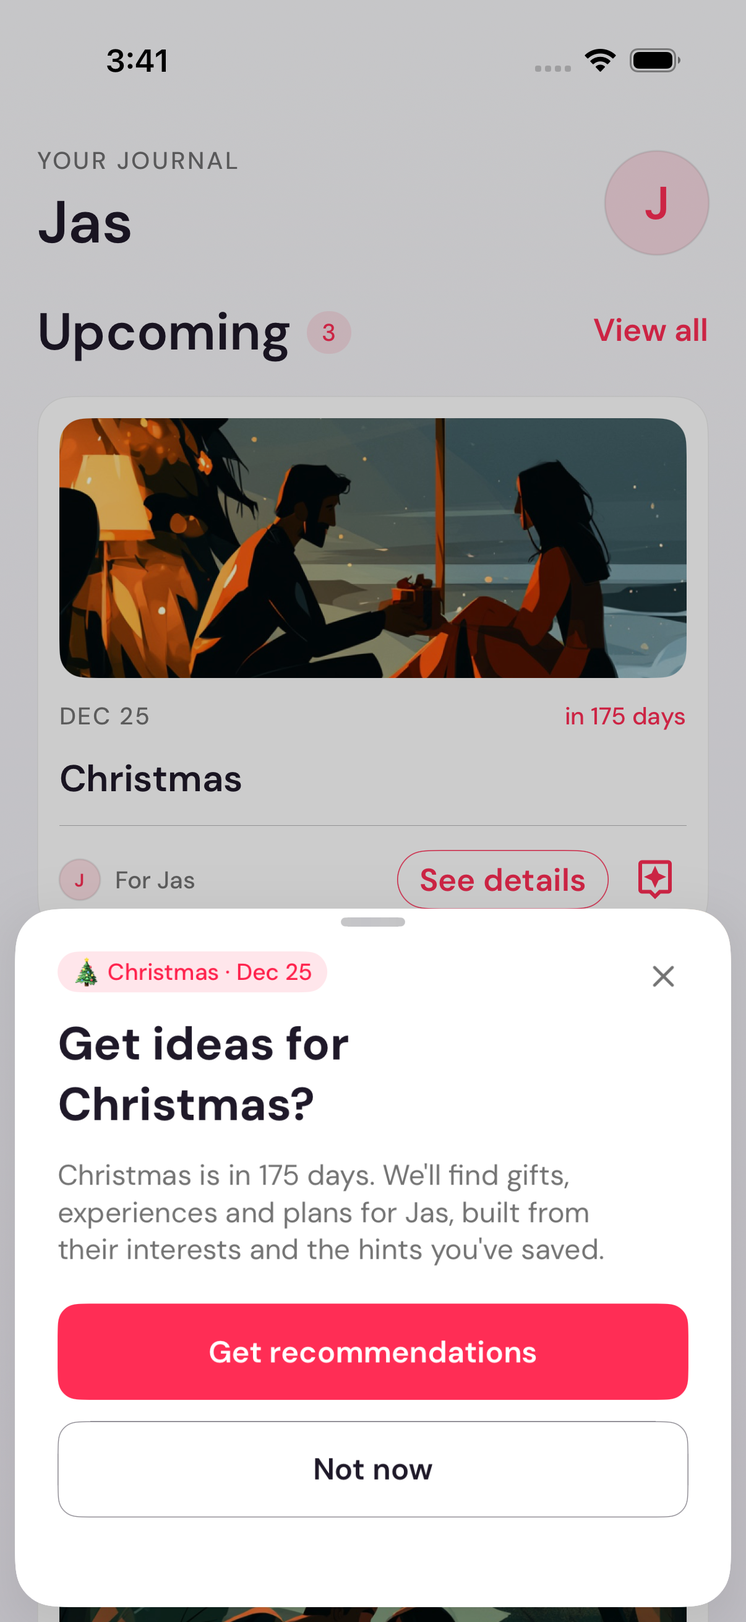
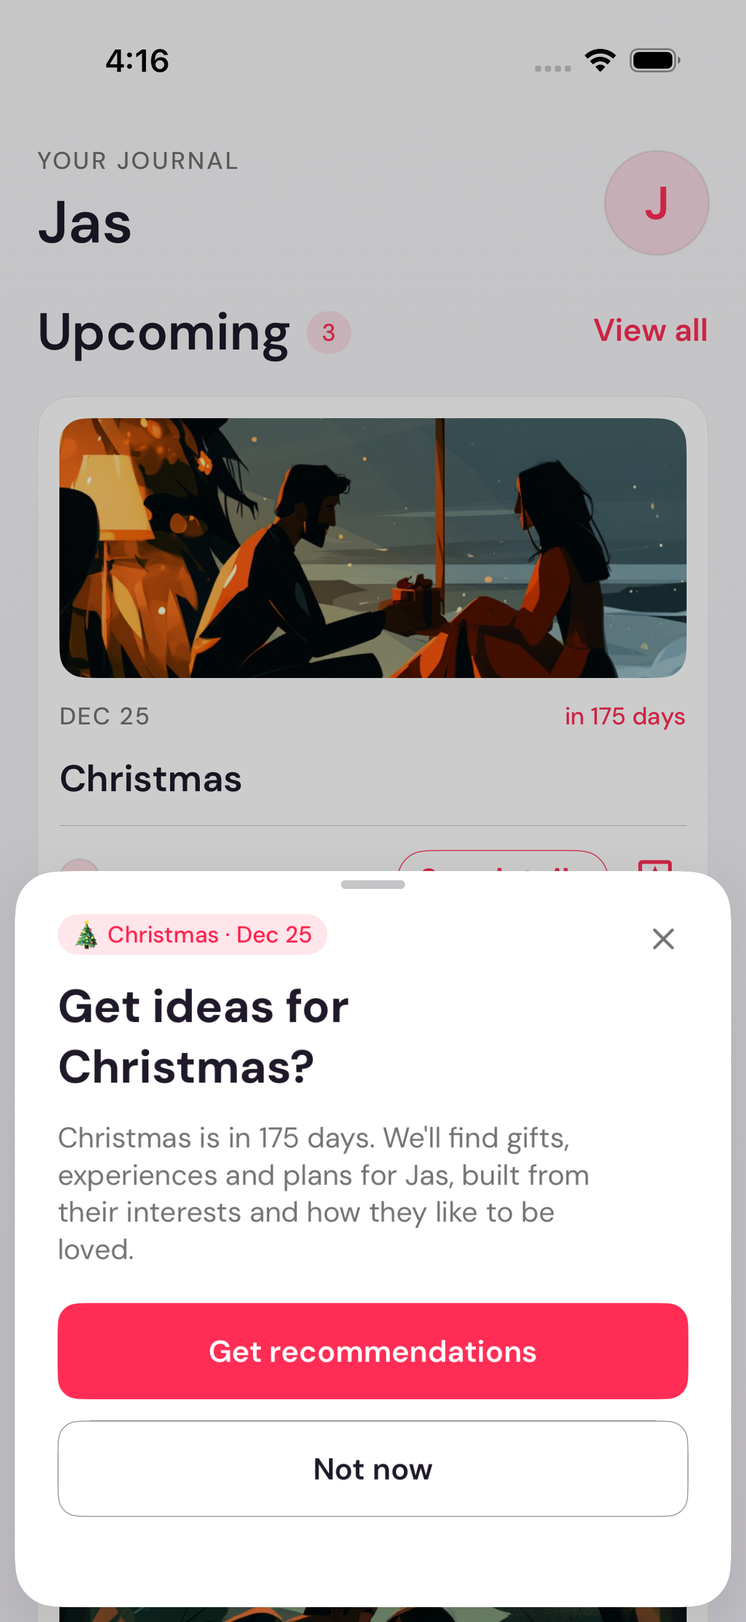
Stop the sheet promising hints, which the app can no longer capture
The grounding tail read "built from their interests and the hints you've
saved", carried forward from the copy this branch replaced. Hint capture has
had no entry point in the app for some time: SessionHintsSheet is still defined
and still has tests, but nothing presents it — the Refresh button that raised it
was removed — so submitSessionHintAndRefresh and HintService.createHint are
unreachable. The Hints tab and the Home-screen capture went earlier, and the
Settings clear-all row after that. There is no surface left that writes a hint.

Changed the tail to name interests and love languages instead. Both are
collected at onboarding, both remain editable in Settings, and both are read by
the generation prompt on every run — so the sentence now describes something the
user can actually act on. The backend half of hints is untouched and still live,
so a row saved before the UI disappeared still influences a result; what was
wrong was inviting the user to add one.

Added hint to the forbidden-claims list in the test that exists to catch exactly
this and didn't. Its list only named the mock's claims — a wishlist, past gifts,
a gendered pronoun — so it had nothing to say about a promise that went stale
because a feature was removed rather than because the copy was wrong when it was
written. The list's own length is now asserted so it cannot be quietly emptied,
and a companion test pins that every framing still grounds itself in the two
fields that remain reachable.
[…]

Changed region(s): [[0.0, 0.5252, 0.9818, 0.7723], [0.1227, 0.0309, 0.2148, 0.0618]]

diff --git a/Knot/iOS/KnotTests/MilestoneRecommendationSheetTests.swift b/Knot/iOS/KnotTests/MilestoneRecommendationSheetTests.swift
@@ -222,15 +222,15 @@ final class MilestoneRecommendationBodyTests: XCTestCase {
     func testBodyLeadsWithTheEventAndItsTiming() {
         XCTAssertEqual(
             body(.giftForward),
-            "Christmas is in 175 days. We'll find gifts, experiences and plans for Jas, built from their interests and the hints you've saved."
+            "Christmas is in 175 days. We'll find gifts, experiences and plans for Jas, built from their interests and how they like to be loved."
         )
         XCTAssertEqual(
             body(.sharedOccasion, name: "Our Anniversary", daysUntil: 7),
-            "Our Anniversary is next week. We'll find date plans, experiences and gifts for the two of you, built from Jas's interests and the hints you've saved."
+            "Our Anniversary is next week. We'll find date plans, experiences and gifts for the two of you, built from Jas's interests and how they like to be loved."
         )
         XCTAssertEqual(
             body(.gesture, name: "Jas's Big Presentation", daysUntil: 3),
-            "Jas's Big Presentation is in 3 days. We'll find small gestures, thoughtful gifts and low-key ideas for Jas, built from their interests and the hints you've saved."
+            "Jas's Big Presentation is in 3 days. We'll find small gestures, thoughtful gifts and low-key ideas for Jas, built from their interests and how they like to be loved."
         )
     }
 
@@ -282,19 +282,56 @@ final class MilestoneRecommendationBodyTests: XCTestCase {
         }
     }
 
-    /// The app has no wishlist and no purchase history, and never collects a
-    /// gender — the comp's copy claimed all three. Guards the rewrite so nobody
-    /// "restores" the mock's wording later. Runs across every framing now that
-    /// there are five of them rather than one string.
+    /// The grounding tail may only name mechanisms the user can actually reach.
+    /// Three claims have already failed that test and are pinned here:
+    ///
+    /// - `wishlist` / `past gifts` — the comp promised both; the app has
+    ///   neither a wishlist nor purchase history.
+    /// - `her` / `his` — the comp used a pronoun for a gender the app never
+    ///   collects.
+    /// - `hint` — hint capture has **no UI entry point**: `SessionHintsSheet`
+    ///   is defined but never presented (the Refresh button that raised it was
+    ///   removed), so `HintService.createHint` is unreachable. The backend
+    ///   still reads hints into the prompt, but a user cannot save one, so
+    ///   "the hints you've saved" invited an action the app doesn't offer.
+    ///   That one shipped *past this test* because the list only named the
+    ///   comp's claims — hence this note, and hence the check below that the
+    ///   list itself hasn't been quietly emptied.
     func testNoBodyClaimsAnythingTheAppDoesNotDo() {
+        let forbiddenClaims = ["wishlist", "past gifts", " her ", " his ", "hint"]
+
+        // A guard that can be defeated by deleting its own list isn't a guard.
+        XCTAssertEqual(
+            forbiddenClaims.count, 5,
+            "Claims were removed from the forbidden list — each was added because copy shipped that the app could not back up"
+        )
+
         for framing in MilestoneRecommendationCopy.Framing.allCases {
             let resolved = body(framing).lowercased()
-            for forbidden in ["wishlist", "past gifts", " her ", " his "] {
+            for forbidden in forbiddenClaims {
                 XCTAssertFalse(
                     resolved.contains(forbidden),
                     "\(framing) body mentions \"\(forbidden)\""
                 )
             }
+        }
+    }
+
+    /// The replacement tail names interests and love languages. Both are
+    /// collected during onboarding and remain editable in Settings → Edit
+    /// Profile, and both are read by the generation prompt on every run — so
+    /// unlike hints, the sheet is describing something the user can act on.
+    func testEveryFramingGroundsItselfInReachableVaultFields() {
+        for framing in MilestoneRecommendationCopy.Framing.allCases {
+            let resolved = body(framing).lowercased()
+            XCTAssertTrue(
+                resolved.contains("interests"),
+                "\(framing) body drops the interests grounding"
+            )
+            XCTAssertTrue(
+                resolved.contains("how they like to be loved"),
+                "\(framing) body drops the love-language grounding"
+            )
         }
     }
 }

diff --git a/Knot/iOS/Knot/Features/ForYou/MilestoneRecommendationCopy.swift b/Knot/iOS/Knot/Features/ForYou/MilestoneRecommendationCopy.swift
@@ -229,28 +229,44 @@ extension MilestoneRecommendationCopy {
 
     /// What the sheet promises to go and find, per framing.
     ///
-    /// Every variant keeps the "built from their interests and the hints you've
-    /// saved" tail verbatim. Step 19.49 wrote it deliberately in place of the
-    /// comp's "her wishlist and past gifts" — the app has neither a wishlist nor
-    /// purchase history, and never collects a gender — and a test forbids those
-    /// claims coming back.
+    /// Every variant ends with the same grounding tail — "built from their
+    /// interests and how they like to be loved" — naming the two vault fields
+    /// the user actually fills in and can still edit (Settings → Edit Profile →
+    /// Interests / Love Languages), which the generation prompt reads on every
+    /// run.
+    ///
+    /// **The tail must only name mechanisms the user can actually reach.** Two
+    /// have already had to be removed for failing that test:
+    ///
+    /// - the comp's "her wishlist and past gifts" — the app has neither a
+    ///   wishlist nor purchase history, and never collects a gender;
+    /// - "the hints you've saved" — hint capture has had **no UI entry point**
+    ///   since the Refresh button was removed, which left `SessionHintsSheet`
+    ///   defined but never presented and `HintService.createHint` unreachable.
+    ///   The backend still retrieves hints and feeds them to the prompt, so a
+    ///   legacy row can still influence a result, but a user cannot add one —
+    ///   and copy that invites them to is a promise the app can't keep.
+    ///
+    /// `testNoBodyClaimsAnythingTheAppDoesNotDo` forbids all of the above.
+    /// Anything new added here has to be checked the same way: find the control
+    /// that produces it, not just the field that stores it.
     static func offerClause(framing: Framing, partnerName: String) -> String {
         let partner = resolvedPartnerName(partnerName)
 
         switch framing {
         case .giftForward:
-            return "We'll find gifts, experiences and plans for \(partner), built from their interests and the hints you've saved."
+            return "We'll find gifts, experiences and plans for \(partner), built from their interests and how they like to be loved."
         case .sharedOccasion:
             // "for the two of you", not "to mark it" — the lead clause is
             // dropped for an undated milestone, and a pronoun with nothing to
             // refer back to would dangle.
-            return "We'll find date plans, experiences and gifts for the two of you, built from \(partner)'s interests and the hints you've saved."
+            return "We'll find date plans, experiences and gifts for the two of you, built from \(partner)'s interests and how they like to be loved."
         case .gesture:
-            return "We'll find small gestures, thoughtful gifts and low-key ideas for \(partner), built from their interests and the hints you've saved."
+            return "We'll find small gestures, thoughtful gifts and low-key ideas for \(partner), built from their interests and how they like to be loved."
         case .spontaneous:
-            return "We'll find small gifts, spontaneous dates and ideas for \(partner), built from their interests and the hints you've saved."
+            return "We'll find small gifts, spontaneous dates and ideas for \(partner), built from their interests and how they like to be loved."
         case .unknown:
-            return "We'll find gifts, dates and plans for \(partner), built from their interests and the hints you've saved."
+            return "We'll find gifts, dates and plans for \(partner), built from their interests and how they like to be loved."
         }
     }
 

diff --git a/Knot/memory-bank/architecture.md b/Knot/memory-bank/architecture.md
@@ -188,8 +188,8 @@ These reuse the original full-screen layouts so a user editing their profile fro
 | `ForYouViewModel.swift` | **Active (Step 16.2).** `@Observable @MainActor` view model managing timeline data. Loads milestones via MilestoneService.listMilestones() and partner name via VaultService.getVault() in parallel. Provides urgencyLevel(for:) with 5-tier MilestoneUrgency enum, formattedDate(_:) for "MMM d" display, and occasionType(for:) mapping. Does not own recommendation state — each NavigationLink push creates a fresh RecommendationsView. |
 | `MilestoneCard.swift` | **New (Step 19.31).** One upcoming milestone as a full-width artwork card, replacing `TimelineEntryView`. `KnotCard(padding: .md, radius: Theme.Radius.xl)` wrapping: **140pt artwork** (**Step 19.35** — was 200pt, at which one card and a sliver of the next filled the screen and the feed read as a stack of posters; the illustrations are 1050×480 ≈ 2.2:1, so 140pt against a ~370pt-wide card lands near their native ratio and the crop keeps the figures whole. `artworkHeight` is `private` with one call site, so only the Journal feed and the `journal` screenshot harness are affected), a meta row of uppercase letterspaced date opposite the countdown, the milestone name in `cardTitleSemibold` (**Step 19.34** — was `sectionHeaderSemibold`, a 28pt *page*-title scale that competed with the then-200pt artwork; the 20pt card scale keeps the semibold weight so the headline still out-weights the `label`-styled meta row and footer), a `Divider`, and a footer of `PartnerInitialAvatar` + "For {partner}" + the `Image("RecommendationBadge")` button carried over from the old row. **The artwork needs no new assets or data:** `artwork(for:)` delegates to `OccasionCopy.illustrationName(for:)` (Step 19.25's bundle-checked slug lookup) keyed by `MilestoneItemResponse.occasionCategory`, which the For You tab had never used; only the `default` category ships no illustration and falls back to an accent gradient carrying the milestone-type glyph. The illustration is composed as an overlay on `Color.clear` (the `SpotlightCard` idiom from Step 18.45) rather than sized directly: `scaledToFill` reports a size larger than the proposal, and that overflow propagates into *layout* — sized directly it widened the card past the viewport and shifted the whole screen sideways. `clipShape` clips pixels, it does not constrain layout. Three pure statics keep the logic testable without SwiftUI introspection — `artwork(for:) -> Artwork` (`.illustration(name)` / `.placeholder`), `dateLabel(from:)` (uppercases the view model's "MMM d"), and `countdownColor(for:)`. The last one preserves the timeline's urgency signal the design would otherwise have dropped: accent for `upcoming`/`planning`/`distant`, but `Theme.statusError` / `Theme.statusWarning` for `critical` / `soon` (the old row used raw `.red` / `.orange`, predating the Step 18.8 status tokens) — which also keeps `ForYouViewModel.urgencyLevel` a consumed API rather than dead code. Also defines **`PartnerInitialAvatar`**, a circular initial mark used by both the card footer and the screen header; the app stores no partner photo at any layer, so it is decorative and `.accessibilityHidden(true)`. **Step 19.38:** the footer gained a labelled `KnotButton("See details", .outline, .sm, .pill)` beside the recommendation icon, driven by a new optional `onSeeDetails` closure (same shape as `onGetRecommendations`, so the card still renders without it). The two are **different destinations** — the button opens the event via `MilestoneDetailView`, the icon asks for ideas for it — which is why both are kept. `.outline` rather than `.primary` (a second pink *fill* would compete with the countdown and the accent icon on the same row) or `.secondary` (that variant fills with `surfaceElevated`, which has almost no contrast against the card's own surface — the same reason the "Upcoming" count badge is `.accent`). With three controls now sharing one variable-width line, the button takes `.fixedSize()` + `.layoutPriority(1)` and "For {partner}" gains a `minimumScaleFactor(0.85)`, so the *name* compresses under pressure and the button can never truncate — the anti-jank recipe from `BudgetTierSliderCard` (18.36) and `LoveLanguageCard` (18.39). **Step 19.49:** unchanged in API and appearance, but `onGetRecommendations` now raises `MilestoneRecommendationSheet` rather than pushing `RecommendationsView` directly — the icon carries no label, so it asks before starting a ~30s generation. `onSeeDetails` is untouched. The two controls remain different *destinations*: the button opens the event, the icon asks for ideas for it. The icon's existing accessibility label ("Get recommendations for {name}") stayed accurate through the change, which is what lets `PRScreenshotTests` target it without touching this file. |
 | `TimelineEntryView.swift` | **Removed (Step 19.31)**, replaced by `MilestoneCard`. Its `partnerName` parameter had been passed by every call site and never read. Was: individual milestone row in the vertical timeline. Leading: timeline line (2px) + urgency-colored dot (10px). Content: date badge (capsule), milestone icon + name, countdown text. Optional "Get Recommendations" CTA card (shown when daysUntil <= 60) with accent-colored background and chevron. **Step 18.1:** Date pill migrated to `KnotBadge(.secondary, .sm)`; the tinted-soft "Get Recommendations" CTA was deliberately kept inline as a snowflake design (doesn't justify a new primitive variant). **Step 19.11:** Replaced that inline pill with a compact trailing recommendation icon button — the info + countdown now sit in a leading `VStack` beside a trailing `Button` wrapping `Image("RecommendationBadge")` (the exact Figma "assistant" bubble+sparkle vector, template-tinted `Theme.accent`, 34pt frame that carries the design's 5pt inset), matching the Figma "Entry Info" `justify-between`. The `daysUntil <= 60` gate was dropped (in `ForYouView`) so the (now unobtrusive) button shows on every milestone row. |
-| `MilestoneRecommendationSheet.swift` | **New (Step 19.49).** The bottom sheet a Journal card's recommendation (sparkle) icon raises before pushing `RecommendationsView`, implementing Figma node 259:554 — a `KnotBadge(.accent)` occasion pill ("🎄 Christmas · Dec 25"), a `sheetTitle` headline, one line of body copy, and stacked `KnotButton`s: `.primary` "Get recommendations" over `.outlineNeutral` "Not now", plus a plain `Lucide.x` close (not `KnotIconButton(.ghost)`, which paints accent — a pink X reads as an action, the call `OccasionEntryModal` also makes). Presented as a **stock `.sheet`**, the house idiom for all 12 of the app's bottom sheets: it supplies the scrim, grab indicator and drag-to-dismiss, and a UIKit modal covers the presenting controller's whole view — including the `KnotTabBar` that `MainTabView` mounts via `.safeAreaInset`, which a `ZStack` layer inside `ForYouView` could not. The centered-dialog apparatus (`fullScreenCover` + `presentationBackground(.clear)` + `disablesAnimations`) exists to *defeat* the sheet's bottom-slide and is deliberately not reused here. **The view configures its own presentation** so its height measurement stays encapsulated: a `SheetContentHeightKey` `PreferenceKey` feeds `.presentationDetents([.height(measured)])` so the sheet hugs its content across milestone names and Dynamic Type. Three details are load-bearing — `.fixedSize(horizontal: false, vertical: true)` on the content stack (without it the first pass lays out against the *seed* height, the title truncates, and the measurement reports the truncated height, so the sheet shrinks instead of growing); the detent adds `safeAreaInsets.bottom`, read from a `GeometryReader` that `.ignoresSafeArea(.container, edges: .bottom)` (otherwise "Not now" sits under the home indicator and the sheet scrolls ~34pt at rest); and it varies **one detent's value**, never the detent *set*, which UIKit resolves by snapping. `adopt(_:)` applies the first correction inside a `disablesAnimations` transaction so the sheet doesn't jump off its seed, and gates on a `> 0.5` delta so sub-point churn can't loop. Three pure statics carry the copy — `badgeText(milestoneName:emoji:formattedDate:)` (degrades to name-only, or date-only, when a part is missing), `title(milestoneName:)`, and `body(partnerName:)`, which **deliberately diverges from the comp**: the mock's "her wishlist and past gifts" names two features the app doesn't have and a gender it never collects, so the shipped line is "…based on their interests and the hints you've saved" and a test pins it. **Step 19.50:** those three statics moved out to `MilestoneRecommendationCopy` and the two gift-only ones were rewritten — `title(milestoneName:)` hardcoded "Get gift ideas for {event}?" while the pipeline emits five recommendation types, and `body(partnerName:)` took no occasion input at all, so 22 very different occasions got one sentence. `header` now resolves all three slots through a single `copy` property, which is what guarantees the badge, headline and body describe the same occasion. No layout, detent or `adopt(_:)` change was needed — the sheet already measures itself, so the longer two-sentence body simply re-detents. The `#Preview` became five, one per framing, since a copy framework whose whole point is that the variants read differently is only reviewable by looking at them. The honesty guard survives and widens: it now runs across all five framings rather than one string. |
-| `MilestoneRecommendationCopy.swift` | **New (Step 19.50).** The content framework behind `MilestoneRecommendationSheet` — badge, title and body resolved from the milestone's `occasion_category`, its `daysUntil`, and the two names. Replaces a hardcoded "Get gift ideas for {event}?" headline (the pipeline emits five recommendation types — `gift`/`experience`/`date`/`idea`/`plan` — and the unified prompt's DIVERSITY rule mixes them on every run, so naming one was a false promise) and a body whose only variable was the partner's name. **Five framings, not 22 templates.** A `Framing` decides two things — the question the title asks and which recommendation types the body names — and the occasion name, timing phrase and partner name are the fill: `giftForward` (12 categories → "Get ideas for {event}?" / "gifts, experiences and plans"), `sharedOccasion` (6 → "Plan {event} together?" / "date plans, experiences and gifts for the two of you"), `gesture` (thinking_of_you, big_day → "Ways to show up for {partner}?" / "small gestures, thoughtful gifts and low-key ideas"), `spontaneous` (just_because), and `unknown` (`default` plus anything a newer backend invents — reachable by design, so an unrecognised key lands on generic-but-correct copy rather than an empty sheet). 12+6+2+1+1 = 22, and `framedCategories` is pinned **both ways** against `OccasionCopy.knownCategories` so an occasion added to the catalogue cannot ship unframed and a framing for a category the backend can't emit cannot sit unexercised. **`OccasionCopy` was deliberately not reused** — it holds one hand-written template per category, which is right for `OccasionEntryModal` (fires *after* generation, announces a result, past tense) but wrong here (fires *before*, asks a question, future tense); its `timingPhrase(daysUntil:)` and `emoji(for:)` **are** reused so the two occasion surfaces phrase time identically. **The body is two sentences:** a lead clause carrying the context ("Christmas is in 175 days.") plus the offer clause. The lead is **dropped entirely when `daysUntil` is nil** — a past one-time milestone genuinely has no day count and asserting a timing it doesn't have is worse than saying nothing — and `spontaneous` substitutes "No occasion needed." `sharedOccasion` says "for the two of you" rather than "to mark it" precisely because the lead can be absent and a pronoun would then dangle. Every offer clause keeps the `"built from their interests and the hints you've saved"` tail verbatim (the Step 19.49 divergence from the comp's "her wishlist and past gifts" — the app has neither, and never collects a gender). Bespoke per-occasion copy remains one map away: `framing(for:)` is the only lookup between a category and its strings. |
+| `MilestoneRecommendationSheet.swift` | **New (Step 19.49).** The bottom sheet a Journal card's recommendation (sparkle) icon raises before pushing `RecommendationsView`, implementing Figma node 259:554 — a `KnotBadge(.accent)` occasion pill ("🎄 Christmas · Dec 25"), a `sheetTitle` headline, one line of body copy, and stacked `KnotButton`s: `.primary` "Get recommendations" over `.outlineNeutral` "Not now", plus a plain `Lucide.x` close (not `KnotIconButton(.ghost)`, which paints accent — a pink X reads as an action, the call `OccasionEntryModal` also makes). Presented as a **stock `.sheet`**, the house idiom for all 12 of the app's bottom sheets: it supplies the scrim, grab indicator and drag-to-dismiss, and a UIKit modal covers the presenting controller's whole view — including the `KnotTabBar` that `MainTabView` mounts via `.safeAreaInset`, which a `ZStack` layer inside `ForYouView` could not. The centered-dialog apparatus (`fullScreenCover` + `presentationBackground(.clear)` + `disablesAnimations`) exists to *defeat* the sheet's bottom-slide and is deliberately not reused here. **The view configures its own presentation** so its height measurement stays encapsulated: a `SheetContentHeightKey` `PreferenceKey` feeds `.presentationDetents([.height(measured)])` so the sheet hugs its content across milestone names and Dynamic Type. Three details are load-bearing — `.fixedSize(horizontal: false, vertical: true)` on the content stack (without it the first pass lays out against the *seed* height, the title truncates, and the measurement reports the truncated height, so the sheet shrinks instead of growing); the detent adds `safeAreaInsets.bottom`, read from a `GeometryReader` that `.ignoresSafeArea(.container, edges: .bottom)` (otherwise "Not now" sits under the home indicator and the sheet scrolls ~34pt at rest); and it varies **one detent's value**, never the detent *set*, which UIKit resolves by snapping. `adopt(_:)` applies the first correction inside a `disablesAnimations` transaction so the sheet doesn't jump off its seed, and gates on a `> 0.5` delta so sub-point churn can't loop. Three pure statics carry the copy — `badgeText(milestoneName:emoji:formattedDate:)` (degrades to name-only, or date-only, when a part is missing), `title(milestoneName:)`, and `body(partnerName:)`, which **deliberately diverges from the comp**: the mock's "her wishlist and past gifts" names two features the app doesn't have and a gender it never collects, so the shipped line is "…based on their interests and the hints you've saved" and a test pins it. **Step 19.50:** those three statics moved out to `MilestoneRecommendationCopy` and the two gift-only ones were rewritten — `title(milestoneName:)` hardcoded "Get gift ideas for {event}?" while the pipeline emits five recommendation types, and `body(partnerName:)` took no occasion input at all, so 22 very different occasions got one sentence. `header` now resolves all three slots through a single `copy` property, which is what guarantees the badge, headline and body describe the same occasion. No layout, detent or `adopt(_:)` change was needed — the sheet already measures itself, so the longer two-sentence body simply re-detents. The `#Preview` became five, one per framing, since a copy framework whose whole point is that the variants read differently is only reviewable by looking at them. The honesty guard survives, widens across all five framings, and gained `hint` — the first pass's tail promised hints, which the app has had no way to capture since Step 18.49. |
+| `MilestoneRecommendationCopy.swift` | **New (Step 19.50).** The content framework behind `MilestoneRecommendationSheet` — badge, title and body resolved from the milestone's `occasion_category`, its `daysUntil`, and the two names. Replaces a hardcoded "Get gift ideas for {event}?" headline (the pipeline emits five recommendation types — `gift`/`experience`/`date`/`idea`/`plan` — and the unified prompt's DIVERSITY rule mixes them on every run, so naming one was a false promise) and a body whose only variable was the partner's name. **Five framings, not 22 templates.** A `Framing` decides two things — the question the title asks and which recommendation types the body names — and the occasion name, timing phrase and partner name are the fill: `giftForward` (12 categories → "Get ideas for {event}?" / "gifts, experiences and plans"), `sharedOccasion` (6 → "Plan {event} together?" / "date plans, experiences and gifts for the two of you"), `gesture` (thinking_of_you, big_day → "Ways to show up for {partner}?" / "small gestures, thoughtful gifts and low-key ideas"), `spontaneous` (just_because), and `unknown` (`default` plus anything a newer backend invents — reachable by design, so an unrecognised key lands on generic-but-correct copy rather than an empty sheet). 12+6+2+1+1 = 22, and `framedCategories` is pinned **both ways** against `OccasionCopy.knownCategories` so an occasion added to the catalogue cannot ship unframed and a framing for a category the backend can't emit cannot sit unexercised. **`OccasionCopy` was deliberately not reused** — it holds one hand-written template per category, which is right for `OccasionEntryModal` (fires *after* generation, announces a result, past tense) but wrong here (fires *before*, asks a question, future tense); its `timingPhrase(daysUntil:)` and `emoji(for:)` **are** reused so the two occasion surfaces phrase time identically. **The body is two sentences:** a lead clause carrying the context ("Christmas is in 175 days.") plus the offer clause. The lead is **dropped entirely when `daysUntil` is nil** — a past one-time milestone genuinely has no day count and asserting a timing it doesn't have is worse than saying nothing — and `spontaneous` substitutes "No occasion needed." `sharedOccasion` says "for the two of you" rather than "to mark it" precisely because the lead can be absent and a pronoun would then dangle. Every offer clause ends with the same grounding tail — `"built from their interests and how they like to be loved"` — naming the two vault fields the user fills in at onboarding, can still edit in Settings → Edit Profile, and that the generation prompt reads on every run. **The tail may only name mechanisms the user can actually reach**, and two have already failed that test: the comp's "her wishlist and past gifts" (the app has neither, and never collects a gender), and `"the hints you've saved"`, which shipped on this step's first pass and was corrected — **hint capture has had no UI entry point** since Step 18.49 removed the Refresh button, leaving `SessionHintsSheet` defined but never presented and `HintService.createHint` unreachable. `testNoBodyClaimsAnythingTheAppDoesNotDo` forbids all of them, asserts its own list length so it cannot be quietly emptied, and is paired with a test pinning that every framing still names the two reachable fields. Bespoke per-occasion copy remains one map away: `framing(for:)` is the only lookup between a category and its strings. |
 | `MilestoneDetailView.swift` | **Active (Step 19.48; replaced the Step 19.38 placeholder wholesale).** One Journal event's own screen, implementing Figma node 579:421. Layout: an in-content header row (`KnotIconButton(Lucide.arrowLeft, .ghost)` + the milestone name in `sectionHeaderSemibold`), a **140pt** occasion hero (reusing `MilestoneCard.artwork(for:)` and the same `Color.clear` + overlay idiom, since a `scaledToFill` image's overflow propagates into layout), a `KnotCard` meta card of three `surfaceBorder`-divided columns — **DATE** (`fullDate`), **COUNTDOWN** (`MilestonesViewModel.daysUntilText`, tinted by `MilestoneCard.countdownColor(for:)` so the screen agrees with the card that opened it), **RECIPIENT** (`PartnerInitialAvatar` + partner name) — then the "Saved ideas" section, then a full-width "Get more ideas" `KnotButton`. That CTA is the **last element of the scroll, not a `safeAreaInset`**: written as a pinned bottom bar first, it floated over the cards with nothing behind it and they bled through; the comp also puts it at the end of the content. Takes `urgency` (for the countdown colour) and `onGetIdeas` (the host dismisses the cover, then pushes — see `ForYouView.showIdeas(for:)`) alongside the milestone, partner name and `onDismiss`. **Saved ideas** come from `MilestoneDetailViewModel`, rendered by the file-private `SavedIdeaCard` (110pt photo over `RecommendationFallbackImage` so a card is never blank per Step 19.13, title + accent price, a two-line note, a `KnotBadge("SAVED", .accent)` opposite a bookmark button that removes the idea). The whole card taps through to `RecommendationDetailView` rebuilt via `SavedRecommendation.toDetailItem()` (the Step 19.9 path), using `.onTapGesture` rather than a wrapping `Button` so the remove control keeps hit-testing. Three pure statics remain: `countdownText(for:)` (falls back to `"—"`, because `daysUntilText(nil)` is `""` and an empty value under a "COUNTDOWN" label reads as a rendering failure — a fixed three-column grid can't drop the column the way the card drops its countdown without stranding a divider), `fullDate(from:)` (expands `"2000-MM-DD"` to "December 25", returning `"—"` when it can't parse — deliberately **not** falling back to `ForYouViewModel.formattedDate(_:)`, which returns the raw stored string on exactly the same failure and would surface the storage format to the user) and `savedIdeasAccessibilityLabel(count:)`. The placeholder's `recurrenceLabel(_:)` / `occasionLabel(for:)` were deleted with the Repeats / Occasion / Budget rows the comp does not carry; those values are still shown and edited in `MilestonesManagementView`. **The comp's `⋯` more button is deliberately omitted** — edit and delete already live behind "View all", and a menu with no destination is the dead-control problem Step 19.31 called out. |
 | `MilestoneDetailViewModel.swift` | **New (Step 19.48).** `@Observable @MainActor` reader for one event's saved ideas. `load(milestoneId:modelContext:)` yields once (the Step 18.18 rule — `ModelContext` is main-actor bound, so a fetch in the same render tick as first appear stalls hit testing), fetches all `SavedRecommendation` newest-first, then filters `milestoneId` **in Swift**: SwiftData predicates over an optional `String` are unreliable, and `SavedViewModel` already fetches the library unbounded, so the read costs nothing new. `remove(_:modelContext:)` deletes the row (mirroring `SavedViewModel.deleteSavedRecommendation`) rather than detaching it — the saved library is one store, and a detach would leave a row the user can no longer see anywhere. `openMerchant(_:)` mirrors `SavedViewModel`'s for the nested detail page's CTA. |
 | `JustBecauseCard.swift` | **Active (Step 18.1, icons removed Step 19.10).** Top card for non-milestone recommendation generation. "Surprise them today" title, description with partner name, pink "Get Recommendations" CTA button. **Step 18.1:** Migrated to compose `KnotCard` + `KnotSectionHeader` + `KnotButton` primitives instead of inline chrome. `onGenerate` is typed `@MainActor () -> Void` for Swift 6 strict concurrency. **Step 19.10:** Removed both `Lucide.sparkles` icons — the `KnotSectionHeader` leading icon and the "Get Recommendations" `KnotButton` `leadingIcon` — leaving a cleaner text-only card; the now-unused `import LucideIcons` was dropped. |
@@ -291,7 +291,7 @@ Future files:
 | `SupabaseClient.swift` | **Active** | Singleton `SupabaseManager.client` initialized with `Constants.Supabase.projectURL` and `anonKey`. The Supabase Swift SDK automatically handles Keychain session storage and token refresh. Used by `AuthViewModel`, `VaultService`, and future service classes. |
 | `VaultService.swift` | **Active (Step 3.12)** | `@MainActor` service for Partner Vault API operations. Four methods: (1) `createVault(_:)` — sends `POST /api/v1/vault` with full onboarding payload; handles 201 success, 401 auth, 409 duplicate, 422 validation, and network errors with typed `VaultServiceError` enum. (2) `getVault()` — sends `GET /api/v1/vault` to retrieve full vault data (all 6 tables); handles 200 success, 401 auth, 404 not found. Returns `VaultGetResponse`. (3) `updateVault(_:)` — sends `PUT /api/v1/vault` with full vault payload (same schema as create); handles 200 success, 401 auth, 404 not found, 422 validation. Returns `VaultUpdateResponse`. (4) `vaultExists()` — queries Supabase PostgREST directly (`partner_vaults?select=id&limit=1`) using the anon client (RLS-scoped); returns `Bool`. All HTTP methods use Bearer token auth via `getAccessToken()`, `URLSession.shared`, `JSONEncoder`/`JSONDecoder`, and differentiate network errors by `URLError.code`. Called by `OnboardingViewModel.submitVault()`, `AuthViewModel.listenForAuthChanges()`, and `EditVaultView`. |
 | `APIClient.swift` | Planned | Generic HTTP client for backend API calls (future refactor) |
-| `HintService.swift` | **Active (Step 4.6, callers updated in Step 18.6)** | `@MainActor` service for Hint Capture API operations. Three methods: (1) `createHint(text:source:)` — sends `POST /api/v1/hints` with hint text and source ("text_input" or "voice_transcription"); handles 201 success, 401 auth, 404 no vault, 422 validation (empty text, text too long), and network errors with typed `HintServiceError` enum (6 cases mirroring `VaultServiceError` pattern). (2) `listHints(limit:offset:)` — sends `GET /api/v1/hints?limit=N&offset=M` to retrieve hints in reverse chronological order; handles 200 success, 401 auth, 404 no vault. Returns `HintListResponse`. (3) `deleteHint(id:)` — sends `DELETE /api/v1/hints/{id}` to permanently delete a hint; handles 204 success, 401 auth, 404 not found (hint doesn't exist or belongs to another user). Uses Bearer token auth via `getAccessToken()`, `URLSession.shared`, `JSONEncoder`/`JSONDecoder`, `mapURLError()` for typed network error differentiation. Parses both FastAPI error formats (string detail + array detail). **Step 18.6 callers:** `RecommendationsViewModel.submitSessionHintAndRefresh()` (best-effort write inside the recommendation refresh flow), and `SettingsViewModel.clearAllHints()` (uses `listHints` + `deleteHint` for the "Clear All Hints" action). The previous Home-screen and standalone-tab capture surfaces were removed in Step 18.6 along with their callers (`HomeViewModel.submitHint`/`loadRecentHints`, `HintsListViewModel.loadHints`/`deleteHint`). **Step 19.7:** `SettingsViewModel.clearAllHints()` was removed with the Settings "Clear All Hints" row, so `createHint` (recommendation refresh flow) is now the only active caller; `listHints`/`deleteHint` are retained as backend-mirroring API-client surface (no current in-app caller). |
+| `HintService.swift` | **Active (Step 4.6, callers updated in Step 18.6)** | `@MainActor` service for Hint Capture API operations. Three methods: (1) `createHint(text:source:)` — sends `POST /api/v1/hints` with hint text and source ("text_input" or "voice_transcription"); handles 201 success, 401 auth, 404 no vault, 422 validation (empty text, text too long), and network errors with typed `HintServiceError` enum (6 cases mirroring `VaultServiceError` pattern). (2) `listHints(limit:offset:)` — sends `GET /api/v1/hints?limit=N&offset=M` to retrieve hints in reverse chronological order; handles 200 success, 401 auth, 404 no vault. Returns `HintListResponse`. (3) `deleteHint(id:)` — sends `DELETE /api/v1/hints/{id}` to permanently delete a hint; handles 204 success, 401 auth, 404 not found (hint doesn't exist or belongs to another user). Uses Bearer token auth via `getAccessToken()`, `URLSession.shared`, `JSONEncoder`/`JSONDecoder`, `mapURLError()` for typed network error differentiation. Parses both FastAPI error formats (string detail + array detail). **Step 18.6 callers:** `RecommendationsViewModel.submitSessionHintAndRefresh()` (best-effort write inside the recommendation refresh flow), and `SettingsViewModel.clearAllHints()` (uses `listHints` + `deleteHint` for the "Clear All Hints" action). The previous Home-screen and standalone-tab capture surfaces were removed in Step 18.6 along with their callers (`HomeViewModel.submitHint`/`loadRecentHints`, `HintsListViewModel.loadHints`/`deleteHint`). **Step 19.7:** `SettingsViewModel.clearAllHints()` was removed with the Settings "Clear All Hints" row, so `createHint` (recommendation refresh flow) is now the only active caller; `listHints`/`deleteHint` are retained as backend-mirroring API-client surface (no current in-app caller). **⚠ Step 19.50 — that last claim has been stale since Step 18.49, and this row is what makes the mistake easy to repeat: `createHint` has NO active caller either, so the whole service is unreachable and hint capture is not a feature the user can use.** The chain is `SessionHintsSheet.onSubmit` → `RecommendationsViewModel.submitSessionHintAndRefresh` → `createHint`, and Step 18.49 removed the Refresh button that raised that sheet — it is still *defined* in `RecommendationsView.swift` and still has tests, but nothing presents it, which is why grepping for the type finds plenty and proves nothing. Combined with Step 18.6 (Hints tab + Home capture deleted) and 19.7 above, **there is no surface anywhere in the app that writes a hint.** The backend half is untouched and still live: `POST /api/v1/hints` works, `hint_retrieval.py` still pulls the top 10 by pgvector similarity into every generation prompt, and `RECENT HINTS` is still a section of `unified_generation._build_user_prompt` — so pre-existing rows still influence recommendations. **Do not write user-facing copy that references hints** (Step 19.50 did, and had to correct it); if hint capture is wanted back, the sheet and view-model methods are intact and need a presentation plus an entry point, not a rewrite. |
 | `RecommendationService.swift` | **Active (Step 9.4)** | `@MainActor` service for Recommendation API operations. Four methods: (1) `generateRecommendations(occasionType:milestoneId:)` — sends `POST /api/v1/recommendations/generate` with occasion type and optional milestone ID; handles 200 success, 401 auth, 404 no vault, 422 validation, and network errors with typed `RecommendationServiceError` enum (7 cases including `.notFound`). Returns `RecommendationGenerateResponse`. (2) `refreshRecommendations(rejectedIds:reason:)` — sends `POST /api/v1/recommendations/refresh` with rejected recommendation IDs and rejection reason for exclusion filtering; same error handling. Returns `RecommendationRefreshResponse`. Both methods use 60-second timeout (longer than HintService's 30s) because the LangGraph AI pipeline involves multiple agent nodes. (3) **Step 6.3/9.4:** `recordFeedback(recommendationId:action:rating:feedbackText:)` — sends `POST /api/v1/recommendations/feedback`; marked `@discardableResult` for fire-and-forget usage; 15-second timeout; expects 201 status code. `rating: Int?` and `feedbackText: String?` optional params (default nil) added in Step 9.4 for post-purchase rating. Valid actions: "selected", "saved", "shared", "rated", "handoff", "purchased", "disliked" (Step 18.43 — the Spotlight deck's 👎). Returns `RecommendationFeedbackResponse`. (4) **Step 9.2:** `fetchRecommendation(id:)` — sends `GET /api/v1/recommendations/{id}` to fetch a single recommendation by database ID; 15-second timeout; handles 200 success, 401 auth, 404 `.notFound`. Returns `MilestoneRecommendationItemResponse`. Used by `DeepLinkRecommendationView` for Universal Link deep linking. Uses Bearer token auth via `getAccessToken()`, `URLSession.shared`, `JSONEncoder`/`JSONDecoder`, `parseErrorMessage()` for both FastAPI error formats. Called by `RecommendationsViewModel` and `DeepLinkRecommendationView`. |
 | `NotificationHistoryService.swift` | **Active (Step 7.7)** | `@MainActor final class: Sendable` service for notification history API operations. Three methods: (1) `fetchHistory(limit:offset:)` — sends `GET /api/v1/notifications/history` with pagination params; handles 200 success, 401 auth, and generic server errors with typed `NotificationHistoryServiceError` enum (4 cases: noAuthSession, networkError, serverError, decodingError). Returns `NotificationHistoryResponse`. (2) `fetchMilestoneRecommendations(milestoneId:)` — sends `GET /api/v1/recommendations/by-milestone/{milestoneId}`; handles 200, 401, 404, server errors. Returns `MilestoneRecommendationsResponse`. (3) `markViewed(notificationId:)` — sends `PATCH /api/v1/notifications/{notificationId}/viewed`; fire-and-forget (catches all errors, logs to console, never throws). Uses Bearer token auth via `getAccessToken()` from `SupabaseManager.client.auth.session`. Follows `RecommendationService.swift` patterns: `mapURLError()` for typed `URLError` differentiation, `parseErrorMessage()` for both FastAPI error formats (string detail + array detail). 15-second timeout for fetch operations, 10-second for mark-viewed. Called by `NotificationsViewModel`. |
 | `AccountService.swift` | **Active (Step 15.6)** | `@MainActor final class: Sendable` service for account-lifecycle API operations. Public methods: (1) `deleteAccount() async throws` — sends `DELETE /api/v1/users/me`; backend responds 200 with `AccountDeleteResponse` (`status="scheduled"`, `scheduled_deletion_at` ISO timestamp). (2) `restoreAccount() async throws` — sends `POST /api/v1/users/me/restore` to clear `scheduled_deletion_at`; idempotent on the server. (3) `fetchAccountStatus() async throws -> AccountStatus` — sends `GET /api/v1/users/me` and returns `.active` or `.pendingDeletion(scheduledAt: Date)`. Used by `AuthViewModel.refreshPendingDeletionStatus()` to drive the `PendingDeletionView` gate. (4) `devResetForOnboarding() async throws` (Step 15.6) — sends `POST /api/v1/users/me/dev-reset`; backend wipes `partner_vaults` (CASCADE removes children) and clears `scheduled_deletion_at`. Method is always compiled (no `#if DEBUG` fence on the service) but every call site is fenced. Server returns 403 unless `KNOT_DEV_RESET_ENABLED=true`, surfaced as `AccountServiceError.serverError(statusCode: 403, ...)`. The `AccountStatus` enum is declared in this file. `parseISODate(_:)` static helper tolerates both fractional-second and basic ISO 8601 formats (Python `datetime.isoformat()` includes microseconds). Error enum: `AccountServiceError` with `.noAuthSession`, `.networkError(String)`, `.serverError(statusCode: Int, message: String)`. 30-second timeout, Bearer auth from `SupabaseManager.client.auth.session`. |

diff --git a/Knot/memory-bank/progress.md b/Knot/memory-bank/progress.md
@@ -9341,10 +9341,27 @@ mis-sold every generation the sheet has ever started.
   day count, and asserting a timing it doesn't have is worse than saying nothing. `spontaneous`
   substitutes *"No occasion needed."* — a timing sentence is nonsense for the absence of an
   occasion.
-- The offer clause keeps `"built from their interests and the hints you've saved"` verbatim in
-  every framing. Step 19.49 wrote it in place of the comp's "her wishlist and past gifts" — the
-  app has neither, and never collects a gender — and the guard against that regressing now runs
-  across all five framings rather than one string.
+- The offer clause ends with the same grounding tail in every framing:
+  `"built from their interests and how they like to be loved"`. Both name vault fields the user
+  fills in at onboarding, can still edit in Settings → Edit Profile, and that the generation
+  prompt reads on every run.
+
+**The tail was wrong on the first pass, and the guard meant to catch that missed it.** It
+shipped as `"…and the hints you've saved"`, carried over from Step 19.49 — but **hint capture
+has had no UI entry point** since Step 18.49 removed the Refresh button. `SessionHintsSheet` is
+still defined in `RecommendationsView.swift` and referenced only by its own `#Preview` and its
+tests; nothing presents it, so `submitSessionHintAndRefresh` and therefore
+`HintService.createHint` are unreachable. Step 18.6 had already deleted the Hints tab and the
+Home-screen capture, and Step 19.7 the Settings "Clear All Hints" row. The backend still
+retrieves hints into the prompt, so a legacy row can still influence a result — but a user
+cannot add one, and copy inviting them to is a promise the app can't keep.
+
+`testNoBodyClaimsAnythingTheAppDoesNotDo` existed precisely to stop this and did not, because
+its forbidden list only named the comp's claims (`wishlist`, `past gifts`, gendered pronouns).
+`hint` is now on that list, the list's own length is asserted so it can't be quietly emptied,
+and a companion test pins that every framing still names the two reachable fields. **A guard
+against unbacked claims has to be extended every time a feature is removed, not only when a new
+claim is written** — the copy didn't change under it; the app did.
 
 *The sheet*
 - `badgeText` moved across unchanged as `MilestoneRecommendationCopy.badge`; `title` and `body`
